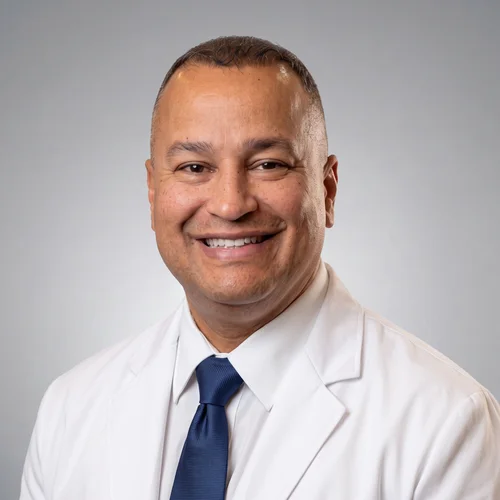
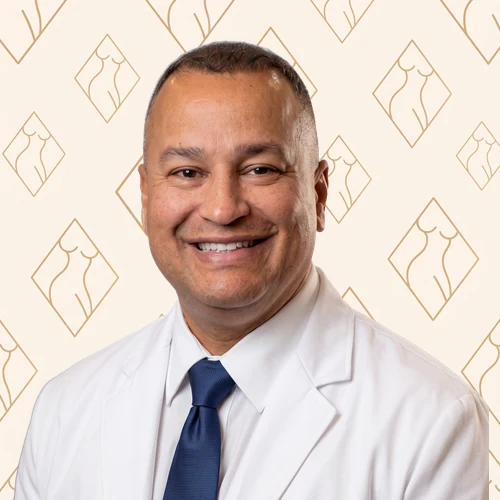
Procedures as a gold-check list under the paragraph; Dr. Dillon removed; Dr. Flores and Dr. Zeng headshots composited onto the same diamond-pattern background as Dr. Liliav (EN/ES)

diff --git a/site/es/index.html b/site/es/index.html
@@ -34,7 +34,7 @@
 <link rel="preconnect" href="https://fonts.gstatic.com" crossorigin>
 <link href="https://fonts.googleapis.com/css2?family=Cormorant+Garamond:ital,wght@0,500;0,600;0,700;1,500&family=Mulish:wght@400;500;600;700&display=swap" rel="stylesheet">
 <link rel="preload" as="image" href="/assets/logo-mark.webp">
-<link rel="stylesheet" href="/assets/style.css?v=e2dd77a6">
+<link rel="stylesheet" href="/assets/style.css?v=df12644e">
 </head>
 <body>
 <div class="site">
@@ -87,17 +87,10 @@
         <span class="eyebrow">QUÉ ES UN MOMMY MAKEOVER</span>
         <h2 class="h2">Tu cuerpo hizo algo extraordinario. Así lo recuperas.</h2>
         <p class="lead">El embarazo estira la piel, separa los músculos abdominales y cambia los senos de formas que ninguna dieta, plancha o &quot;recuperación natural&quot; puede revertir. Un Mommy Makeover es una sola cirugía, una sola recuperación y un solo plan que resuelve todo a la vez.</p>
+        <ul class="plist what-list"><li><span class="check">✓</span><span>Abdominoplastia</span></li><li><span class="check">✓</span><span>Levantamiento de senos</span></li><li><span class="check">✓</span><span>Aumento de senos (opcional)</span></li><li><span class="check">✓</span><span>Liposucción</span></li></ul>
+        <p class="note what-note">Tu cirujano arma la combinación para ti. No toda mujer necesita las cuatro.</p>
       </div>
       <div class="what-img"><div class="frame"></div><img src="/assets/lifestyle.webp" alt="Mujer segura junto a la piscina" width="1400" height="939" loading="lazy"></div>
-    </div>
-    <div class="proc">
-      <div class="proc-cards">
-        <div class="proc-card"><span class="icon check"><svg viewBox="0 0 24 24" width="32" height="32" aria-hidden="true"><circle cx="12" cy="12" r="11" fill="none" stroke="currentColor" stroke-width="1.4"/><path d="M7.5 12.4l3 3 6-6.4" fill="none" stroke="currentColor" stroke-width="1.8" stroke-linecap="round" stroke-linejoin="round"/></svg></span><h3>Abdominoplastia</h3></div>
-        <div class="proc-card"><span class="icon check"><svg viewBox="0 0 24 24" width="32" height="32" aria-hidden="true"><circle cx="12" cy="12" r="11" fill="none" stroke="currentColor" stroke-width="1.4"/><path d="M7.5 12.4l3 3 6-6.4" fill="none" stroke="currentColor" stroke-width="1.8" stroke-linecap="round" stroke-linejoin="round"/></svg></span><h3>Levantamiento de senos</h3></div>
-        <div class="proc-card"><span class="icon check"><svg viewBox="0 0 24 24" width="32" height="32" aria-hidden="true"><circle cx="12" cy="12" r="11" fill="none" stroke="currentColor" stroke-width="1.4"/><path d="M7.5 12.4l3 3 6-6.4" fill="none" stroke="currentColor" stroke-width="1.8" stroke-linecap="round" stroke-linejoin="round"/></svg></span><h3>Aumento de senos (opcional)</h3></div>
-        <div class="proc-card"><span class="icon check"><svg viewBox="0 0 24 24" width="32" height="32" aria-hidden="true"><circle cx="12" cy="12" r="11" fill="none" stroke="currentColor" stroke-width="1.4"/><path d="M7.5 12.4l3 3 6-6.4" fill="none" stroke="currentColor" stroke-width="1.8" stroke-linecap="round" stroke-linejoin="round"/></svg></span><h3>Liposucción</h3></div>
-      </div>
-      <p class="note">Tu cirujano arma la combinación para ti. No toda mujer necesita las cuatro.</p>
     </div>
   </div>
 </section>
@@ -160,7 +153,6 @@
       <div class="surgeon"><img src="/assets/surgeons/dr-liliav.webp" alt="Dr. Benjamin Liliav, MD" width="500" height="500" loading="lazy"><h3>Dr. Benjamin Liliav, MD</h3><span class="surgeon-title">CIRUJANO PLÁSTICO CERTIFICADO</span><p>El Dr. Benjamin Liliav, MD, FACS, es cirujano plástico con doble certificación y más de 20 años de experiencia, especializado en resultados de aspecto natural.</p></div>
       <div class="surgeon"><img src="/assets/surgeons/dr-flores.webp" alt="Dr. Jaime Flores, MD" width="500" height="500" loading="lazy"><h3>Dr. Jaime Flores, MD</h3><span class="surgeon-title">CIRUJANO PLÁSTICO CERTIFICADO</span><p>El Dr. Jaime Flores es cirujano plástico certificado con más de dos décadas de experiencia en cirugía reconstructiva y estética, reconocido por el contorno corporal y los procedimientos de senos, y creador de la técnica de reconstrucción mamaria LSGAP.</p></div>
       <div class="surgeon"><img src="/assets/surgeons/dr-zeng.webp" alt="Dr. Waylon Zeng, MD" width="500" height="500" loading="lazy"><h3>Dr. Waylon Zeng, MD</h3><span class="surgeon-title">CIRUJANO PLÁSTICO</span><p>El Dr. Waylon Zeng completó una residencia integrada de seis años en cirugía plástica y reconstructiva y formación avanzada en cirugía estética. Habla inglés, español y mandarín, y se enfoca en ayudar a cada paciente a decidir con información.</p></div>
-      <div class="surgeon"><img src="/assets/surgeons/dr-dillon.webp" alt="Dr. Paul C. Dillon, MD" width="500" height="500" loading="lazy"><h3>Dr. Paul C. Dillon, MD</h3><span class="surgeon-title">CIRUJANO PLÁSTICO Y RECONSTRUCTIVO CERTIFICADO</span><p>El Dr. Paul C. Dillon es cirujano plástico y reconstructivo certificado con décadas de experiencia y formación en cirugía general y de mano, al frente de un equipo quirúrgico enfocado en seguridad, precisión y atención personalizada.</p></div>
     </div>
   </div>
   <div class="band"><p><span class="dia">◇</span>Si en algún momento te sientes presionada o &quot;vendida&quot;, dínoslo. Así no trabajamos.</p></div>
@@ -277,6 +269,6 @@
 </div>
 <script id="mm-i18n" type="application/json">{"quiz":{"back":"← Atrás","badge":"EVALUACIÓN GRATIS · 60 SEG","questionOf":"PREGUNTA {n} DE 8","continueLabel":"Continuar","submitLabel":"Recibir mi evaluación gratis →","sending":"Enviando…","stateLabel":"ESTADO","cityLabel":"CIUDAD (OPCIONAL)","cityPlaceholder":"Miami","nameLabel":"NOMBRE","lastNameLabel":"APELLIDO","phoneLabel":"TELÉFONO","phonePlaceholder":"(305) 555-0123","phoneError":"Ingresa un teléfono de EE. UU. de 10 dígitos.","emailLabel":"EMAIL","consent":"Al continuar aceptas ser contactada por teléfono, SMS o WhatsApp.","nameFallback":"mamá","backHome":"← Volver a la página","outsideUS":"Fuera de EE. UU.","steps":[{"id":"procedures","multi":true,"q":1,"title":"¿Qué procedimientos te interesan?","hint":"Elige todo lo que aplique.","options":[["Abdominoplastia","tummy_tuck"],["Levantamiento de senos","breast_lift"],["Aumento de senos","breast_augmentation"],["Liposucción","liposuction"],["No estoy segura, que el cirujano recomiende","not_sure"]]},{"id":"timing","q":2,"title":"¿Cuándo te gustaría operarte?","options":[["Lo antes posible","asap"],["1–3 meses","1_3_months"],["3–6 meses","3_6_months"],["Solo estoy investigando","researching"]]},{"id":"travel","q":3,"title":"¿Puedes viajar a nuestra clínica en Miami?","options":[["Vivo en Miami/Sur de FL","miami_south_fl"],["Sí, desde otra parte de Florida","florida"],["Sí, desde otro estado","other_state"],["No","no"]]},{"id":"age","q":4,"title":"¿Tienes 18 años o más?","options":[["Sí","yes"],["No","no"]]},{"id":"smoke","q":4,"title":"¿Fumas o vapeas?","options":[["No","no"],["Sí","yes"],["Sí, pero lo dejaría antes de la cirugía","yes_would_stop"]]},{"id":"pay","q":5,"title":"¿Cómo planeas pagar?","options":[["Efectivo/ahorros","cash"],["Financiamiento","financing"],["Una combinación","mix"],["No estoy segura","not_sure"]]},{"id":"credit","q":6,"title":"¿Tu puntaje de crédito aproximado?","showIfPay":["financing","mix","not_sure"],"options":[["720+","720_plus"],["680–719","680_719"],["620–679","620_679"],["Menos de 620","below_620"],["No lo sé","unknown"]]},{"id":"location","q":7,"type":"location","title":"¿Dónde te encuentras?"},{"id":"contact","q":8,"type":"contact","title":"¿A dónde te enviamos la evaluación de tu cirujano?"}],"qualified":{"title":"Gracias, {name}. Un último paso para tu cirujano.","text":"Envía 4 fotos para que tu cirujano evalúe tu caso: frente · lado izquierdo · lado derecho · espalda. En brasier y ropa interior o como te sientas cómoda, de pie y derecha, con luz natural y brazos relajados. Fotos de celular están perfectas.","silhouettes":["FRENTE","LADO IZQUIERDO","LADO DERECHO","ESPALDA"],"privacy":"🔒 Privadas. Solo las ve tu equipo quirúrgico. Nunca se usan en publicidad sin tu consentimiento escrito.","waButton":"Enviar mis fotos por WhatsApp","waMessage":"Hola, soy {name}. Acabo de completar la evaluación de Mommy Makeover y envío mis fotos.","uploadToggle":"Prefiero subirlas aquí","uploadSlots":["FRENTE","IZQ.","DER.","ESPALDA"],"uploadSubmit":"Enviar fotos","uploadSuccess":"Fotos recibidas. Tu cirujano las revisará y te contactaremos en 24–48 horas.","nextLabel":"QUÉ SIGUE","nextSteps":["fotos","revisión del cirujano","cotización preliminar en 24–48h","depósito de $250 + consulta","plan de tratamiento + cotización final","fecha de cirugía"],"call":"¿Prefieres llamar?"},"nurture":{"title":"Ya estás en nuestra lista, {name}.","text":"Una coordinadora te contactará con los siguientes pasos, opciones de financiamiento y, si es \"todavía no\", exactamente qué haría falta para el \"sí\".","waButton":"Escríbenos por WhatsApp","waMessage":"Hola, soy {name}. Acabo de completar la evaluación de Mommy Makeover.","call":"¿Prefieres llamar?"},"notFit":{"title":"Gracias por tu honestidad.","travel":"Nuestras cirugías se realizan en Miami. Si tus planes cambian, nos encantaría ayudarte.","age":"Nuestros procedimientos son para pacientes de 18 años o más. Cuando sea el momento, nos encantaría ayudarte.","waButton":"Escríbenos por WhatsApp de todas formas","waMessage":"Hola, soy {name}. Acabo de completar la evaluación de Mommy Makeover.","restart":"Empezar de nuevo"}}}</script>
 <script>window.MM_CONFIG={"GOOGLE_ADS_ID":"AW-11505059358","GA4_ID":"G-K59E90DQD0","GOOGLE_ADS_CONVERSION_LABEL":"HytJCO7F-ewcEJ6Mhe4q","LEAD_ENDPOINT":"/api/lead","GTM_ID":"","META_PIXEL_ID":"","WHATSAPP_NUMBER":"13056154200","PHONE":"(305) 615-4200","DEPOSIT_AMOUNT":"$250","REVIEW_COUNT":"","SOURCE":"google_lp_mommy_makeover","CAMPAIGN_FALLBACK":"google-lp-mm"};</script>
-<script src="/assets/app.js?v=e2dd77a6" defer></script>
+<script src="/assets/app.js?v=df12644e" defer></script>
 </body>
 </html>

diff --git a/site/index.html b/site/index.html
@@ -34,7 +34,7 @@
 <link rel="preconnect" href="https://fonts.gstatic.com" crossorigin>
 <link href="https://fonts.googleapis.com/css2?family=Cormorant+Garamond:ital,wght@0,500;0,600;0,700;1,500&family=Mulish:wght@400;500;600;700&display=swap" rel="stylesheet">
 <link rel="preload" as="image" href="/assets/logo-mark.webp">
-<link rel="stylesheet" href="/assets/style.css?v=e2dd77a6">
+<link rel="stylesheet" href="/assets/style.css?v=df12644e">
 </head>
 <body>
 <div class="site">
@@ -87,17 +87,10 @@
         <span class="eyebrow">WHAT IS A MOMMY MAKEOVER</span>
         <h2 class="h2">Your body did something extraordinary. This is how you get it back.</h2>
         <p class="lead">Pregnancy stretches skin, separates the abdominal muscles, and changes the breasts in ways that no amount of diet, planks or &quot;bouncing back&quot; can reverse. A Mommy Makeover is one surgery, one recovery and one plan that addresses all of it at once.</p>
+        <ul class="plist what-list"><li><span class="check">✓</span><span>Tummy Tuck</span></li><li><span class="check">✓</span><span>Breast Lift</span></li><li><span class="check">✓</span><span>Breast Augmentation (optional)</span></li><li><span class="check">✓</span><span>Liposuction</span></li></ul>
+        <p class="note what-note">Your surgeon builds the combination for you. Not every woman needs all four.</p>
       </div>
       <div class="what-img"><div class="frame"></div><img src="/assets/lifestyle.webp" alt="Confident woman by the pool" width="1400" height="939" loading="lazy"></div>
-    </div>
-    <div class="proc">
-      <div class="proc-cards">
-        <div class="proc-card"><span class="icon check"><svg viewBox="0 0 24 24" width="32" height="32" aria-hidden="true"><circle cx="12" cy="12" r="11" fill="none" stroke="currentColor" stroke-width="1.4"/><path d="M7.5 12.4l3 3 6-6.4" fill="none" stroke="currentColor" stroke-width="1.8" stroke-linecap="round" stroke-linejoin="round"/></svg></span><h3>Tummy Tuck</h3></div>
-        <div class="proc-card"><span class="icon check"><svg viewBox="0 0 24 24" width="32" height="32" aria-hidden="true"><circle cx="12" cy="12" r="11" fill="none" stroke="currentColor" stroke-width="1.4"/><path d="M7.5 12.4l3 3 6-6.4" fill="none" stroke="currentColor" stroke-width="1.8" stroke-linecap="round" stroke-linejoin="round"/></svg></span><h3>Breast Lift</h3></div>
-        <div class="proc-card"><span class="icon check"><svg viewBox="0 0 24 24" width="32" height="32" aria-hidden="true"><circle cx="12" cy="12" r="11" fill="none" stroke="currentColor" stroke-width="1.4"/><path d="M7.5 12.4l3 3 6-6.4" fill="none" stroke="currentColor" stroke-width="1.8" stroke-linecap="round" stroke-linejoin="round"/></svg></span><h3>Breast Augmentation (optional)</h3></div>
-        <div class="proc-card"><span class="icon check"><svg viewBox="0 0 24 24" width="32" height="32" aria-hidden="true"><circle cx="12" cy="12" r="11" fill="none" stroke="currentColor" stroke-width="1.4"/><path d="M7.5 12.4l3 3 6-6.4" fill="none" stroke="currentColor" stroke-width="1.8" stroke-linecap="round" stroke-linejoin="round"/></svg></span><h3>Liposuction</h3></div>
-      </div>
-      <p class="note">Your surgeon builds the combination for you. Not every woman needs all four.</p>
     </div>
   </div>
 </section>
@@ -160,7 +153,6 @@
       <div class="surgeon"><img src="/assets/surgeons/dr-liliav.webp" alt="Dr. Benjamin Liliav, MD" width="500" height="500" loading="lazy"><h3>Dr. Benjamin Liliav, MD</h3><span class="surgeon-title">BOARD-CERTIFIED PLASTIC SURGEON</span><p>Dr. Benjamin Liliav, MD, FACS is a double board-certified plastic surgeon with over 20 years of experience, specializing in natural-looking results.</p></div>
       <div class="surgeon"><img src="/assets/surgeons/dr-flores.webp" alt="Dr. Jaime Flores, MD" width="500" height="500" loading="lazy"><h3>Dr. Jaime Flores, MD</h3><span class="surgeon-title">BOARD-CERTIFIED PLASTIC SURGEON</span><p>Dr. Jaime Flores is a board-certified plastic surgeon with more than two decades of reconstructive and cosmetic experience, known for body contouring and breast procedures and as the creator of the LSGAP breast reconstruction technique.</p></div>
       <div class="surgeon"><img src="/assets/surgeons/dr-zeng.webp" alt="Dr. Waylon Zeng, MD" width="500" height="500" loading="lazy"><h3>Dr. Waylon Zeng, MD</h3><span class="surgeon-title">PLASTIC SURGEON</span><p>Dr. Waylon Zeng completed a six-year integrated plastic and reconstructive surgery residency and advanced aesthetic training. Fluent in English, Spanish and Mandarin, he focuses on helping patients make informed decisions.</p></div>
-      <div class="surgeon"><img src="/assets/surgeons/dr-dillon.webp" alt="Dr. Paul C. Dillon, MD" width="500" height="500" loading="lazy"><h3>Dr. Paul C. Dillon, MD</h3><span class="surgeon-title">BOARD-CERTIFIED PLASTIC AND RECONSTRUCTIVE SURGEON</span><p>Dr. Paul C. Dillon is a board-certified plastic and reconstructive surgeon with decades of experience and training in general and hand surgery, leading a surgical team focused on safety, precision and personalized care.</p></div>
     </div>
   </div>
   <div class="band"><p><span class="dia">◇</span>If you ever feel rushed or sold to, tell us. That's not how this works.</p></div>
@@ -277,6 +269,6 @@
 </div>
 <script id="mm-i18n" type="application/json">{"quiz":{"back":"← Back","badge":"FREE EVALUATION · 60 SEC","questionOf":"QUESTION {n} OF 8","continueLabel":"Continue","submitLabel":"Get my free evaluation →","sending":"Sending…","stateLabel":"STATE","cityLabel":"CITY (OPTIONAL)","cityPlaceholder":"Miami","nameLabel":"FIRST NAME","lastNameLabel":"LAST NAME","phoneLabel":"PHONE","phonePlaceholder":"(305) 555-0123","phoneError":"Enter a 10-digit US phone number.","emailLabel":"EMAIL","consent":"By continuing you agree to be contacted by phone, SMS or WhatsApp.","nameFallback":"there","backHome":"← Back to the page","outsideUS":"Outside the US","steps":[{"id":"procedures","multi":true,"q":1,"title":"Which procedures are you interested in?","hint":"Choose everything that applies.","options":[["Tummy tuck","tummy_tuck"],["Breast lift","breast_lift"],["Breast augmentation","breast_augmentation"],["Liposuction","liposuction"],["Not sure, let the surgeon recommend","not_sure"]]},{"id":"timing","q":2,"title":"When would you like to have surgery?","options":[["ASAP","asap"],["1–3 months","1_3_months"],["3–6 months","3_6_months"],["Just researching","researching"]]},{"id":"travel","q":3,"title":"Can you travel to our clinic in Miami?","options":[["I'm in Miami/South FL","miami_south_fl"],["Yes, from elsewhere in Florida","florida"],["Yes, from another state","other_state"],["No","no"]]},{"id":"age","q":4,"title":"Are you 18 or older?","options":[["Yes","yes"],["No","no"]]},{"id":"smoke","q":4,"title":"Do you smoke or vape?","options":[["No","no"],["Yes","yes"],["Yes, but I'd stop before surgery","yes_would_stop"]]},{"id":"pay","q":5,"title":"How do you plan to pay?","options":[["Cash/savings","cash"],["Financing","financing"],["A mix","mix"],["Not sure","not_sure"]]},{"id":"credit","q":6,"title":"Approximate credit score?","showIfPay":["financing","mix","not_sure"],"options":[["720+","720_plus"],["680–719","680_719"],["620–679","620_679"],["Below 620","below_620"],["Don't know","unknown"]]},{"id":"location","q":7,"type":"location","title":"Where are you located?"},{"id":"contact","q":8,"type":"contact","title":"Where should your surgeon send your evaluation?"}],"qualified":{"title":"Thank you, {name}. One last step for your surgeon.","text":"Send 4 photos so your surgeon can evaluate your case: front · left side · right side · back. In a bra and underwear or as you feel comfortable, standing straight, natural light, arms relaxed. Phone photos are perfect.","silhouettes":["FRONT","LEFT SIDE","RIGHT SIDE","BACK"],"privacy":"🔒 Private. Seen only by your surgical team. Never used for marketing without your written consent.","waButton":"Send my photos on WhatsApp","waMessage":"Hi, I'm {name}. I just completed the Mommy Makeover evaluation and I'm sending my photos.","uploadToggle":"Upload them here instead","uploadSlots":["FRONT","LEFT","RIGHT","BACK"],"uploadSubmit":"Submit photos","uploadSuccess":"Photos received. Your surgeon will review them and you'll hear from us within 24–48 hours.","nextLabel":"WHAT HAPPENS NEXT","nextSteps":["photos","surgeon review","preliminary quote in 24–48h","$250 deposit + consultation","treatment plan + final quote","surgery date"],"call":"Prefer to call?"},"nurture":{"title":"You're on our list, {name}.","text":"A patient coordinator will reach out with next steps, financing options and, if it's \"not yet,\" exactly what \"yes\" would take.","waButton":"Chat on WhatsApp","waMessage":"Hi, I'm {name}. I just completed the Mommy Makeover evaluation.","call":"Prefer to call?"},"notFit":{"title":"Thank you for your honesty.","travel":"Our surgeries are performed in Miami. If your plans change, we'd love to help.","age":"Our procedures are for patients 18 and older. When the time is right, we'd love to help.","waButton":"Chat on WhatsApp anyway","waMessage":"Hi, I'm {name}. I just completed the Mommy Makeover evaluation.","restart":"Start over"}}}</script>
 <script>window.MM_CONFIG={"GOOGLE_ADS_ID":"AW-11505059358","GA4_ID":"G-K59E90DQD0","GOOGLE_ADS_CONVERSION_LABEL":"HytJCO7F-ewcEJ6Mhe4q","LEAD_ENDPOINT":"/api/lead","GTM_ID":"","META_PIXEL_ID":"","WHATSAPP_NUMBER":"13056154200","PHONE":"(305) 615-4200","DEPOSIT_AMOUNT":"$250","REVIEW_COUNT":"","SOURCE":"google_lp_mommy_makeover","CAMPAIGN_FALLBACK":"google-lp-mm"};</script>
-<script src="/assets/app.js?v=e2dd77a6" defer></script>
+<script src="/assets/app.js?v=df12644e" defer></script>
 </body>
 </html>

diff --git a/scripts/build.js b/scripts/build.js
@@ -68,7 +68,7 @@ const RESULT_FILES = [
   "r01-breast-aug-lipo-bbl", "r02-tummy-tuck-lipo-bbl", "r03-lipo-bbl", "r04-breast-lift-no-implants", "r05-breast-aug-ext-tummy-tuck",
   "r06-breast-lift-reduction", "r07-tummy-tuck-breast-lift-implants", "r08-ext-tummy-tuck-breast-aug", "r09-ext-tummy-tuck-breast-lift", "r10-ext-tummy-tuck-breast-lift",
 ];
-const SURGEON_FILES = ["dr-liliav", "dr-flores", "dr-zeng", "dr-dillon"];
+const SURGEON_FILES = ["dr-liliav", "dr-flores", "dr-zeng"];
 const STORIES = [1, 2, 3, 4, 5];
 
 function googleTag() {
@@ -192,14 +192,10 @@ ${gtmBody()}<div class="site">
         <span class="eyebrow">${esc(W.eyebrow)}</span>
         <h2 class="h2">${esc(W.h2)}</h2>
         <p class="lead">${esc(W.p)}</p>
+        <ul class="plist what-list">${W.cards.map((txt) => `<li><span class="check">✓</span><span>${esc(txt)}</span></li>`).join("")}</ul>
+        <p class="note what-note">${esc(W.note)}</p>
       </div>
       <div class="what-img"><div class="frame"></div><img src="/assets/lifestyle.webp" alt="${esc(W.imgAlt)}" width="1400" height="939" loading="lazy"></div>
-    </div>
-    <div class="proc">
-      <div class="proc-cards">
-        ${W.cards.map((txt) => `<div class="proc-card"><span class="icon check"><svg viewBox="0 0 24 24" width="32" height="32" aria-hidden="true"><circle cx="12" cy="12" r="11" fill="none" stroke="currentColor" stroke-width="1.4"/><path d="M7.5 12.4l3 3 6-6.4" fill="none" stroke="currentColor" stroke-width="1.8" stroke-linecap="round" stroke-linejoin="round"/></svg></span><h3>${esc(txt)}</h3></div>`).join("\n        ")}
-      </div>
-      <p class="note">${esc(W.note)}</p>
     </div>
   </div>
 </section>

diff --git a/content/es.js b/content/es.js
@@ -161,7 +161,6 @@ module.exports = {
       ["Dr. Benjamin Liliav, MD", "CIRUJANO PLÁSTICO CERTIFICADO", "El Dr. Benjamin Liliav, MD, FACS, es cirujano plástico con doble certificación y más de 20 años de experiencia, especializado en resultados de aspecto natural."],
       ["Dr. Jaime Flores, MD", "CIRUJANO PLÁSTICO CERTIFICADO", "El Dr. Jaime Flores es cirujano plástico certificado con más de dos décadas de experiencia en cirugía reconstructiva y estética, reconocido por el contorno corporal y los procedimientos de senos, y creador de la técnica de reconstrucción mamaria LSGAP."],
       ["Dr. Waylon Zeng, MD", "CIRUJANO PLÁSTICO", "El Dr. Waylon Zeng completó una residencia integrada de seis años en cirugía plástica y reconstructiva y formación avanzada en cirugía estética. Habla inglés, español y mandarín, y se enfoca en ayudar a cada paciente a decidir con información."],
-      ["Dr. Paul C. Dillon, MD", "CIRUJANO PLÁSTICO Y RECONSTRUCTIVO CERTIFICADO", "El Dr. Paul C. Dillon es cirujano plástico y reconstructivo certificado con décadas de experiencia y formación en cirugía general y de mano, al frente de un equipo quirúrgico enfocado en seguridad, precisión y atención personalizada."],
     ],
     license: "Verificar licencia ↗",
     band: "Si en algún momento te sientes presionada o \"vendida\", dínoslo. Así no trabajamos.",

diff --git a/content/en.js b/content/en.js
@@ -161,7 +161,6 @@ module.exports = {
       ["Dr. Benjamin Liliav, MD", "BOARD-CERTIFIED PLASTIC SURGEON", "Dr. Benjamin Liliav, MD, FACS is a double board-certified plastic surgeon with over 20 years of experience, specializing in natural-looking results."],
       ["Dr. Jaime Flores, MD", "BOARD-CERTIFIED PLASTIC SURGEON", "Dr. Jaime Flores is a board-certified plastic surgeon with more than two decades of reconstructive and cosmetic experience, known for body contouring and breast procedures and as the creator of the LSGAP breast reconstruction technique."],
       ["Dr. Waylon Zeng, MD", "PLASTIC SURGEON", "Dr. Waylon Zeng completed a six-year integrated plastic and reconstructive surgery residency and advanced aesthetic training. Fluent in English, Spanish and Mandarin, he focuses on helping patients make informed decisions."],
-      ["Dr. Paul C. Dillon, MD", "BOARD-CERTIFIED PLASTIC AND RECONSTRUCTIVE SURGEON", "Dr. Paul C. Dillon is a board-certified plastic and reconstructive surgeon with decades of experience and training in general and hand surgery, leading a surgical team focused on safety, precision and personalized care."],
     ],
     license: "Verify license ↗",
     band: "If you ever feel rushed or sold to, tell us. That's not how this works.",

diff --git a/site/assets/style.css b/site/assets/style.css
@@ -187,6 +187,9 @@ h1, h2, h3, p { margin: 0; }
 .what-grid { display: grid; grid-template-columns: repeat(auto-fit, minmax(min(100%, 340px), 1fr)); gap: 48px; align-items: center; }
 .what-copy { display: flex; flex-direction: column; gap: 18px; max-width: 640px; }
 .what-copy .lead { line-height: 1.7; }
+.what-list { margin-top: 6px; gap: 12px; }
+.what-list li { font-family: var(--serif); font-size: 19px; font-weight: 600; color: var(--ink); align-items: center; }
+.what-note { margin-top: 2px; }
 .what-img { position: relative; }
 .what-img .frame { position: absolute; inset: 14px -14px -14px 14px; border: 1px solid rgba(200,164,101,0.5); border-radius: 6px; pointer-events: none; }
 .what-img img { width: 100%; height: 360px; object-fit: cover; border-radius: 6px; display: block; }

diff --git a/site/es/gracias/index.html b/site/es/gracias/index.html
@@ -22,7 +22,7 @@
 <link rel="preconnect" href="https://fonts.googleapis.com">
 <link rel="preconnect" href="https://fonts.gstatic.com" crossorigin>
 <link href="https://fonts.googleapis.com/css2?family=Cormorant+Garamond:ital,wght@0,500;0,600;0,700;1,500&family=Mulish:wght@400;500;600;700&display=swap" rel="stylesheet">
-<link rel="stylesheet" href="/assets/style.css?v=e2dd77a6">
+<link rel="stylesheet" href="/assets/style.css?v=df12644e">
 <script>
   (function(){
     var email = sessionStorage.getItem('xil_lead_email');

diff --git a/site/thank-you/index.html b/site/thank-you/index.html
@@ -22,7 +22,7 @@
 <link rel="preconnect" href="https://fonts.googleapis.com">
 <link rel="preconnect" href="https://fonts.gstatic.com" crossorigin>
 <link href="https://fonts.googleapis.com/css2?family=Cormorant+Garamond:ital,wght@0,500;0,600;0,700;1,500&family=Mulish:wght@400;500;600;700&display=swap" rel="stylesheet">
-<link rel="stylesheet" href="/assets/style.css?v=e2dd77a6">
+<link rel="stylesheet" href="/assets/style.css?v=df12644e">
 <script>
   (function(){
     var email = sessionStorage.getItem('xil_lead_email');
